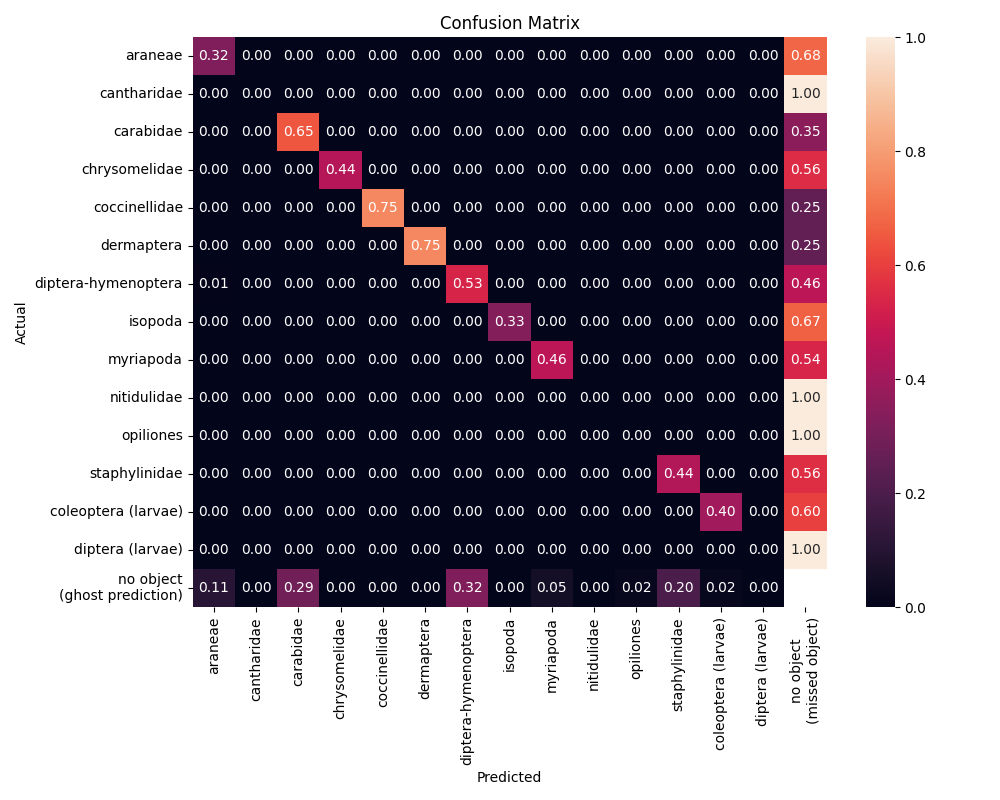
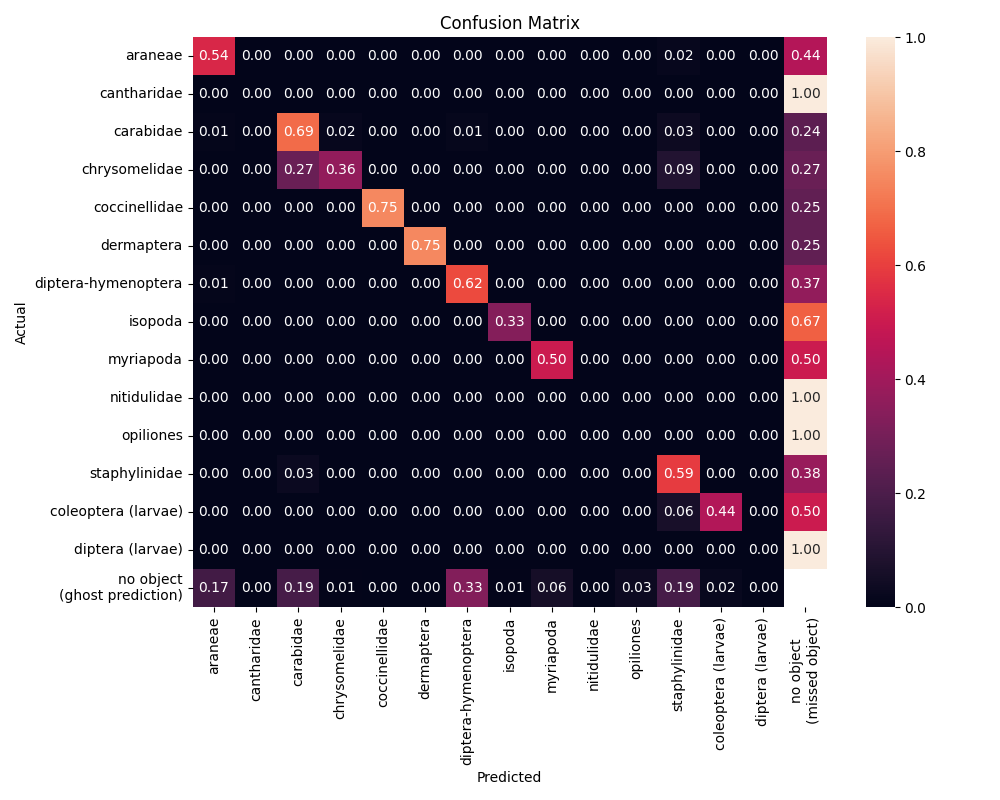
PR curves per class and overall

diff --git a/scripts/eval_model.py b/scripts/eval_model.py
@@ -121,33 +121,23 @@ def plot_pr_curve_per_class(y_true, y_pred, y_scores, coco_categories, output_di
     cols = 3  # Set number of columns to 3
     fig, axes = plt.subplots(rows, cols, figsize=(15, 5 * rows))
     axes = axes.flatten()  # Flatten the axes array for easy iteration
-    
     for class_id, label in enumerate(class_labels):
         # Binarize the labels for each class
-        y_true_class = [1 if true_cls == class_id else 0 for true_cls in y_true]
-        y_scores_class = [score if pred_cls == class_id else 0.0 for pred_cls, score in zip(y_pred, y_scores)]
+        y_true_cls = np.array([1 if y == class_id else 0 for y in y_true])
+        y_scores_cls = np.array([score if pred == class_id else 0 for pred, score in zip(y_pred, y_scores)])
         
         # Only compute the precision-recall curve if there are positive samples
         # if any(y_true_class):  # Only proceed if there are positive samples for this class
-        precision, recall, thresholds = precision_recall_curve(y_true_class, y_scores_class)
+        precision, recall, thresholds = precision_recall_curve(y_true_cls, y_scores_cls)
         auc_score = auc(recall, precision)
-
+        
         ax = axes[class_id]
         ax.plot(recall, precision, label=f"PR Curve (AUC = {auc_score:.2f})")
         ax.set_xlabel("Recall")
         ax.set_ylabel("Precision")
         ax.set_title(f"{label}")
 
-        # Find the threshold that gives the best F1-score
-        f1_scores = []
-        for p, r in zip(precision, recall):
-            if p + r == 0:
-                f1_scores.append(0)  # Avoid division by zero
-            else:
-                f1_scores.append(2 * (p * r) / (p + r))
-        best_threshold_index = np.argmax(f1_scores)
-        best_threshold = thresholds[best_threshold_index]
-        best_f1 = f1_scores[best_threshold_index]
+        best_threshold, best_threshold_index, best_f1 = threshold_and_idx_of_best_f1_from_pr(precision, recall, thresholds)
         ax.scatter(recall[best_threshold_index], precision[best_threshold_index], color='red', label=f'Best Thresh (F1 = {best_f1:.2f})')
         ax.annotate(f'Thresh: {best_threshold:.2f}', 
                         (recall[best_threshold_index], precision[best_threshold_index]), 
@@ -155,37 +145,82 @@ def plot_pr_curve_per_class(y_true, y_pred, y_scores, coco_categories, output_di
                         xytext=(0, 10), 
                         ha='center', fontsize=8, color='red')
         ax.legend(loc='upper center', bbox_to_anchor=(0.5, -0.1), ncol=2, fancybox=True, shadow=True)
-        '''
-        # Label the thresholds on the curve
-        step_size = max(1, len(thresholds) // 3) # Ensure we get at least 1 step
-        for j in range(0, len(thresholds), step_size):  # Show at 3 different points
-            ax.annotate(f'Thresh: {thresholds[j]:.2f}', 
-                        (recall[j], precision[j]), 
-                        textcoords="offset points", 
-                        xytext=(0, 10), 
-                        ha='center', fontsize=8, color='blue')'''
     plt.tight_layout()
     #plt.legend()
     plt.savefig(output_dir+"pr_curve-per_class.png", bbox_inches='tight')
     plt.close()
 
-def plot_and_save_results(coco_json_path, image_dir, predictions_path, output_dir):
-    coco_json = cc.load_from_file(coco_json_path)
-    pred_dict = cc.load_from_file(predictions_path)
-    print("Fetching ground truths...")
-    ground_truth_dict = cc.load_image_to_bbox_and_cat_pairs_from_annotations(coco_json=coco_json)
-    ground_truth_classes, predicted_classes, scores = match_detections(ground_truth_dict=ground_truth_dict, pred_dict=pred_dict, conf_thresh=0.8)
-    plot_confusion_matrix(y_true=ground_truth_classes, y_pred=predicted_classes, coco_categories=coco_json["categories"], output_dir=output_dir)
-    #plot_pr_curve(y_true=ground_truth_classes, y_scores=scores, output_dir=output_dir)
-    
-    ground_truth_dict = cc.load_image_to_bbox_and_cat_pairs_from_annotations(coco_json=coco_json)
-    ground_truth_classes, predicted_classes, scores = match_detections(ground_truth_dict=ground_truth_dict, pred_dict=pred_dict, conf_thresh=0.5)
-    plot_pr_curve_per_class(y_true=ground_truth_classes, y_pred=predicted_classes, y_scores=scores, coco_categories=coco_json["categories"], output_dir=output_dir)
+def threshold_and_idx_of_best_f1_from_pr(precision, recall, thresholds):
+    f1_scores = []
+    for p, r in zip(precision, recall):
+        if p + r == 0:
+            f1_scores.append(0)  # Avoid division by zero
+        else:
+            f1_scores.append(2 * (p * r) / (p + r))
+    best_threshold_index = np.argmax(f1_scores)
+    best_threshold = thresholds[best_threshold_index]
+    best_f1 = f1_scores[best_threshold_index]
+    return best_threshold, best_threshold_index, best_f1
 
+def plot_pr_curve(y_true, y_pred, y_scores, coco_categories, output_dir):
+    class_ids = [cat["id"]-1 for cat in coco_categories]# + [-1]
+
+    # Initialize the predicted probabilities for the micro-average PR curve
+    all_y_true = []
+    all_y_scores = []
+
+    # Compute per-class precision-recall curves
+    precisions, recalls, ap_scores, weights = [], [], [], []
+    for class_idx in class_ids:
+        binary_y_true = np.array([1 if y == class_idx else 0 for y in y_true])
+        binary_y_scores = np.array([score if pred == class_idx else 0 for pred, score in zip(y_pred, y_scores)])# Scores for this class
+        
+        all_y_true.extend(binary_y_true)
+        all_y_scores.extend(binary_y_scores)
+        
+        precision, recall, _ = precision_recall_curve(binary_y_true, binary_y_scores)
+        ap = average_precision_score(binary_y_true, binary_y_scores)
+        
+        precisions.append(precision)
+        recalls.append(recall)
+        ap_scores.append(ap)
+        weights.append(sum(binary_y_true))  # Weight based on number of samples per class
+
+
+    micro_precision, micro_recall, _ = precision_recall_curve(all_y_true, all_y_scores)
+    micro_ap = average_precision_score(all_y_true, all_y_scores)
+    # Interpolate all PR curves at fixed recall points
+    interp_recalls = np.linspace(0, 1, num=100)
+    interp_precisions = [np.interp(interp_recalls, r[::-1], p[::-1]) for r, p in zip(recalls, precisions)]
+    # Compute macro and weighted PR curves
+    macro_precision = np.mean(interp_precisions, axis=0)
+    macro_ap = np.mean(ap_scores)
+
+    weighted_precision = np.average(interp_precisions, axis=0, weights=weights)
+    weighted_ap = np.average(ap_scores, weights=weights)
+ 
+    plt.plot(micro_recall, micro_precision, label=f'Micro-Averaged (AP = {micro_ap:.2f})', linewidth=2)
+    plt.plot(interp_recalls, macro_precision, label=f'Macro-Averaged (AP = {macro_ap:.2f})', linewidth=2, linestyle="-.")
+    plt.plot(interp_recalls, weighted_precision, label=f'Weighted-Averaged (AP = {weighted_ap:.2f})', linewidth=2, linestyle="dotted")
+
+
+    plt.legend(loc='upper center', bbox_to_anchor=(0.5, -0.1), ncol=2, fancybox=True, shadow=True)
+    
+    plt.xlabel("Recall")
+    plt.ylabel("Precision")
+    plt.title("Micro vs. Macro vs. Weighted PR Curves")
+    plt.legend()
+    plt.grid()
+    plt.savefig(output_dir+"pr_curve.png", bbox_inches='tight')
+    plt.close()
+    
 def main():
      # Set up command-line argument parsing
     parser = argparse.ArgumentParser(description="")
     parser.add_argument("dataset_name", help="")
+    parser.add_argument('-cm', help="Confusion matrix", action='store_true')
+    parser.add_argument('-pr', help="PR-curves", action='store_true')
+    
     
     # Parse the arguments
     args = parser.parse_args()
@@ -195,8 +230,24 @@ def main():
     OUTPUT_DIR = "results/"
     PREDS_FILE = "results/predictions.json"
 
-    plot_and_save_results(coco_json_path=COCO_JSON, image_dir=IMAGE_FOLDER, predictions_path=PREDS_FILE, output_dir=OUTPUT_DIR)
+    coco_json = cc.load_from_file(COCO_JSON)
+    pred_dict = cc.load_from_file(PREDS_FILE)
 
+    if args.cm:
+        print("Fetching ground truths...")
+        ground_truth_dict = cc.load_image_to_bbox_and_cat_pairs_from_annotations(coco_json=coco_json)
+        print("Matching predictions and ground truths...")
+        ground_truth_classes, predicted_classes, scores = match_detections(ground_truth_dict=ground_truth_dict, pred_dict=pred_dict, conf_thresh=0.3)
+        plot_confusion_matrix(y_true=ground_truth_classes, y_pred=predicted_classes, coco_categories=coco_json["categories"], output_dir=OUTPUT_DIR)
+    if args.pr:
+        print("Fetching ground truths...")
+        ground_truth_dict = cc.load_image_to_bbox_and_cat_pairs_from_annotations(coco_json=coco_json)
+        print("Matching predictions and ground truths...")
+        ground_truth_classes, predicted_classes, scores = match_detections(ground_truth_dict=ground_truth_dict, pred_dict=pred_dict, conf_thresh=0.3)
+        print("Plotting PR curves per class...")
+        plot_pr_curve_per_class(y_true=ground_truth_classes, y_pred=predicted_classes, y_scores=scores, coco_categories=coco_json["categories"], output_dir=OUTPUT_DIR)
+        print("Plotting average PR curve...")
+        plot_pr_curve(y_true=ground_truth_classes, y_pred=predicted_classes, y_scores=scores, coco_categories=coco_json["categories"], output_dir=OUTPUT_DIR)
 
 if __name__ == "__main__":
     main()
